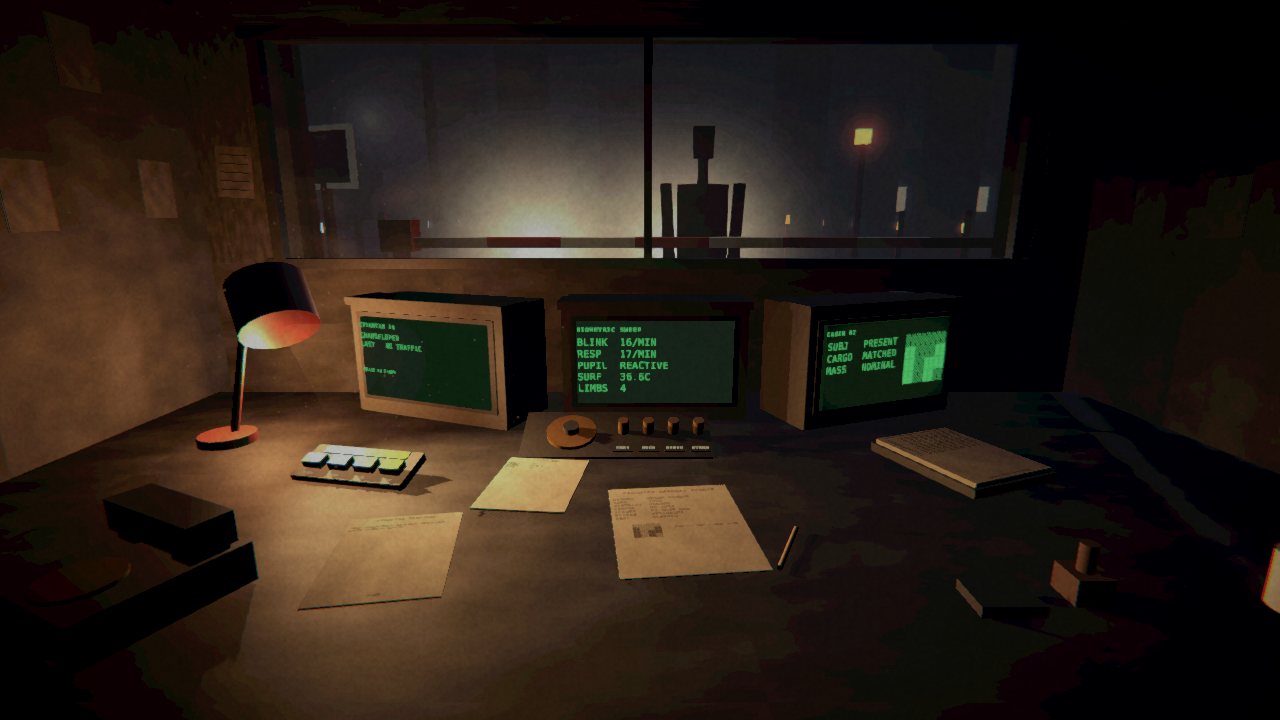
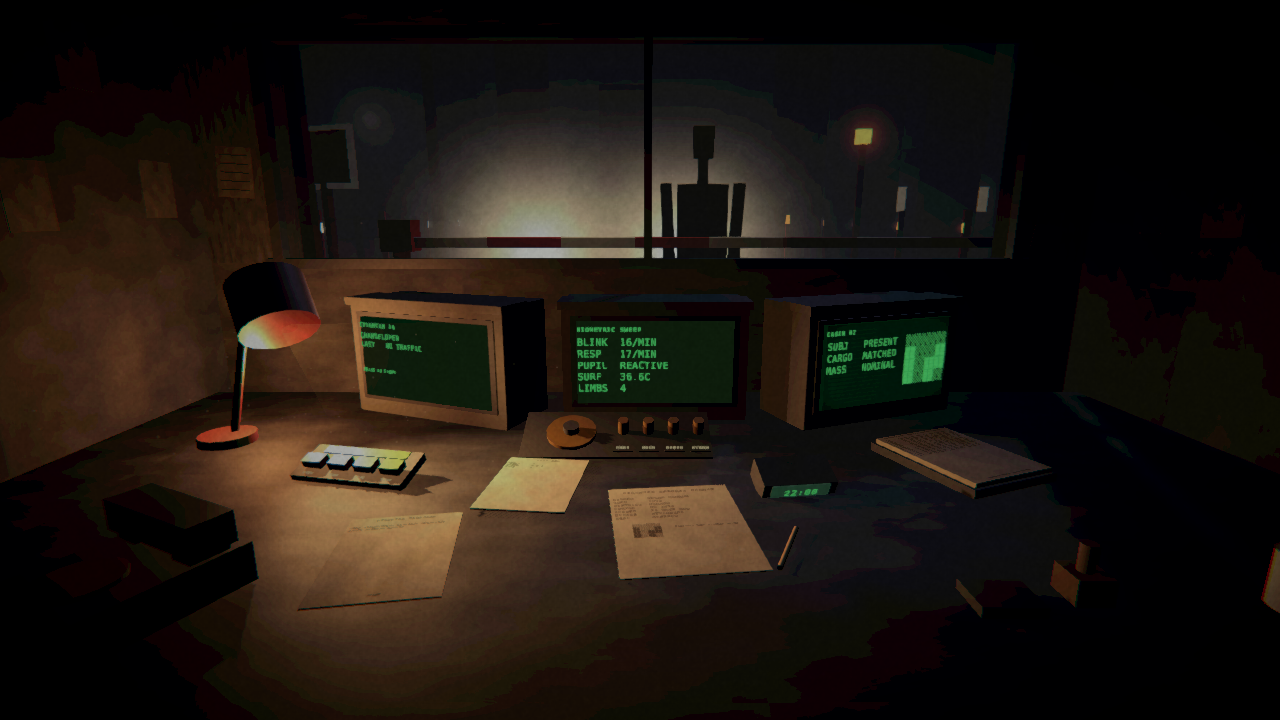
Update the M3 report for saving and the clock

diff --git a/docs/progress/m3/README.md b/docs/progress/m3/README.md
@@ -167,6 +167,62 @@ without making it unreadable.
 
 ---
 
+## Saving, and the clock
+
+Two more things went in after the three gaps closed, because each was the thing
+standing between a system and its point.
+
+### A campaign can be put down and picked up
+
+A thirty-night campaign that cannot be resumed makes the length theoretical.
+
+The save holds the seed and the verdicts and nothing else. Who turned up, what
+the manual said, which notices are queued and when they land — all of it is
+derived by replaying, because all of it is already deterministic from the seed.
+Serialising the notices themselves would tie every save to the exact wording of
+the post, so editing one line of a district circular would invalidate every save
+in existence. A full thirty nights is under 24 kB of small integers.
+
+Quitting five vehicles into a shift keeps those five. A save whose verdicts no
+longer line up with the queues its seed produces is refused rather than replayed,
+because it would silently resume a different game; one this build cannot read at
+all is renamed rather than deleted.
+
+The test worth naming is
+`ConsequencesQueuedBeforeTheSaveStillArriveAfterIt`. Consequences are queued by
+one night and delivered several later, so a save restoring only visible state
+would resume into a campaign with no future in it — the player would walk away
+from every mistake they had already made. It was checked by mutation: clearing
+the pending queue on restore turns it red at exactly the night the deduction was
+due, and reverting turns it green.
+
+### A clock, so that asking costs something
+
+Moving the pause and the layered voice off the monitors was supposed to make
+checking them a decision. It did not, quite. With nothing to spend, the four
+intercom keys were four keys you press on every vehicle because there is no
+reason not to.
+
+A night is eight hours. A vehicle takes eighteen minutes and a question takes
+nine. The squeeze tightens across the campaign rather than being uniform:
+
+| | queue | minutes left after clearing it | questions that buys |
+|---|---|---|---|
+| night 1 | 15 | 210 | 23 |
+| night 30 | 26 | 12 | 1 |
+
+Clearing the queue is always possible if you ask nothing, so the clock is a
+budget rather than a punishment — a test asserts that for all thirty nights.
+
+That puts a price on a question. Nine minutes is half a vehicle is three credits;
+an error costs nine credits four nights later. Asking is worth it whenever it is
+more than about a third likely to change the answer. That is the decision the
+interrogation was built to create, and it did not exist until the clock did.
+
+Two of the eight new tests state the curve as arithmetic rather than as a
+sentence, because it is a claim that will quietly stop being true the first time
+anyone edits the quota curve.
+
 ## Bugs this milestone surfaced
 
 Five, all of which had been shipping silently.
@@ -202,8 +258,8 @@ instead, which does differ by seed.
 
 ## Tests
 
-48 → 67. The nineteen new ones cover the interrogation (8) and the campaign and
-its consequences (11).
+48 → 84. The thirty-six new ones cover the interrogation (8), the campaign and
+its consequences (11), saving and resuming (9) and the clock (8).
 
 Three of them exist specifically to protect the design pillar, because it is easy
 to break by accident:
@@ -231,25 +287,30 @@ withheld, 0 errors logged.
 | frame time | 57 ms (18 fps) on Mesa llvmpipe, no GPU |
 | renderers | 229 |
 | triangles | 3,978 |
-| edit-mode tests | 67 passing |
+| edit-mode tests | 84 passing |
 | self-check errors | 0 |
+| self-check run | 6 nights, 96 vehicles, 54 credits withheld, save resumed |
 
 ## What is still missing
 
 Reassessed from M2's list.
 
-1. **Audio has never been heard.** Synthesised, structurally tested, and now
-   wired to the intercom as well — but this machine has no audio device. *Medium.*
-2. **No save/load.** A thirty-night campaign cannot be resumed, which makes the
-   campaign length theoretical. This is now the largest gap. *High.*
-3. **Interaction is untested by a human.** Look, hover, lean-in and the new
-   leafing are exercised only by the scripted self-check. *Medium.*
+1. **Interaction is untested by a human.** Look, hover, lean-in and the new
+   leafing are exercised only by the scripted self-check. Nothing here has ever
+   been played. This is now the largest gap and it cannot be closed on this
+   machine. *High.*
+2. **Audio has never been heard.** Synthesised, structurally tested, and now
+   wired to the intercom as well — but this machine has no audio device.
+   *Medium.*
+3. **No shift-end screen and no campaign end.** Night thirty finishes and the
+   thirty-first simply does not start. *Medium.*
 4. **Props still have no surface detail** beyond the grunge-mapped large
    surfaces. *Medium.*
-5. **The monitors are flat quads.** No curved glass, no barrel distortion. *Low.*
-6. **Legacy input, not the Input System.** No rebinding. *Low.*
-7. **Validated only on a software rasteriser.** Post-processing, shadow filtering
+5. **The manual cannot be leafed through.** The leafing interaction went in for
+   the post; the binder still shows only the criteria in force, so a player
+   cannot check what a superseded revision said. *Medium.*
+6. **The monitors are flat quads.** No curved glass, no barrel distortion. *Low.*
+7. **Legacy input, not the Input System.** No rebinding. *Low.*
+8. **Validated only on a software rasteriser.** Post-processing, shadow filtering
    and anti-aliasing will differ on a real GPU, and the grade above was tuned
    against llvmpipe output. *Known limitation.*
-8. **No questioning consequences.** Asking costs time but the time is not yet
-   scarce enough to hurt: there is no clock pressure inside a shift. *Medium.*
